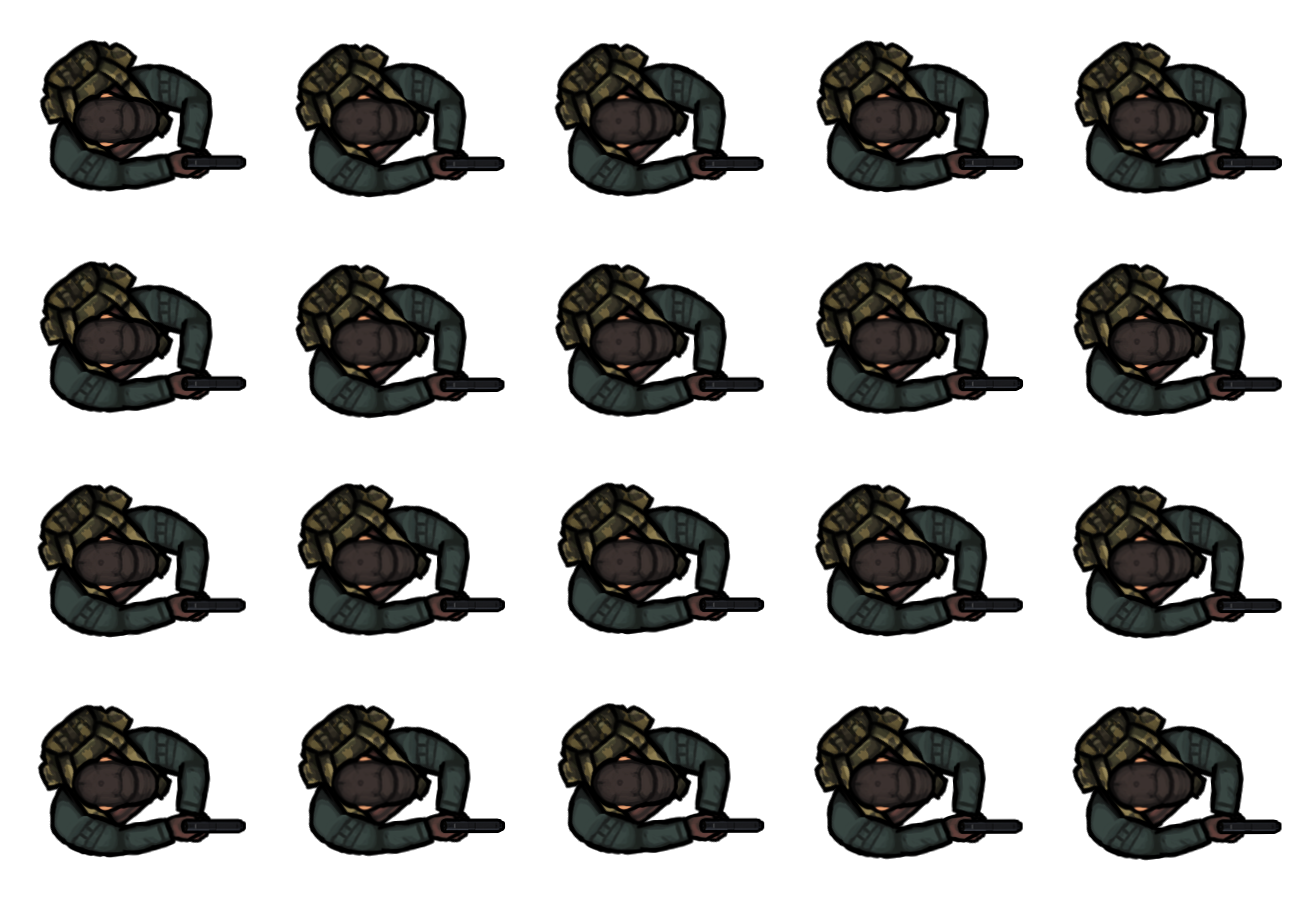
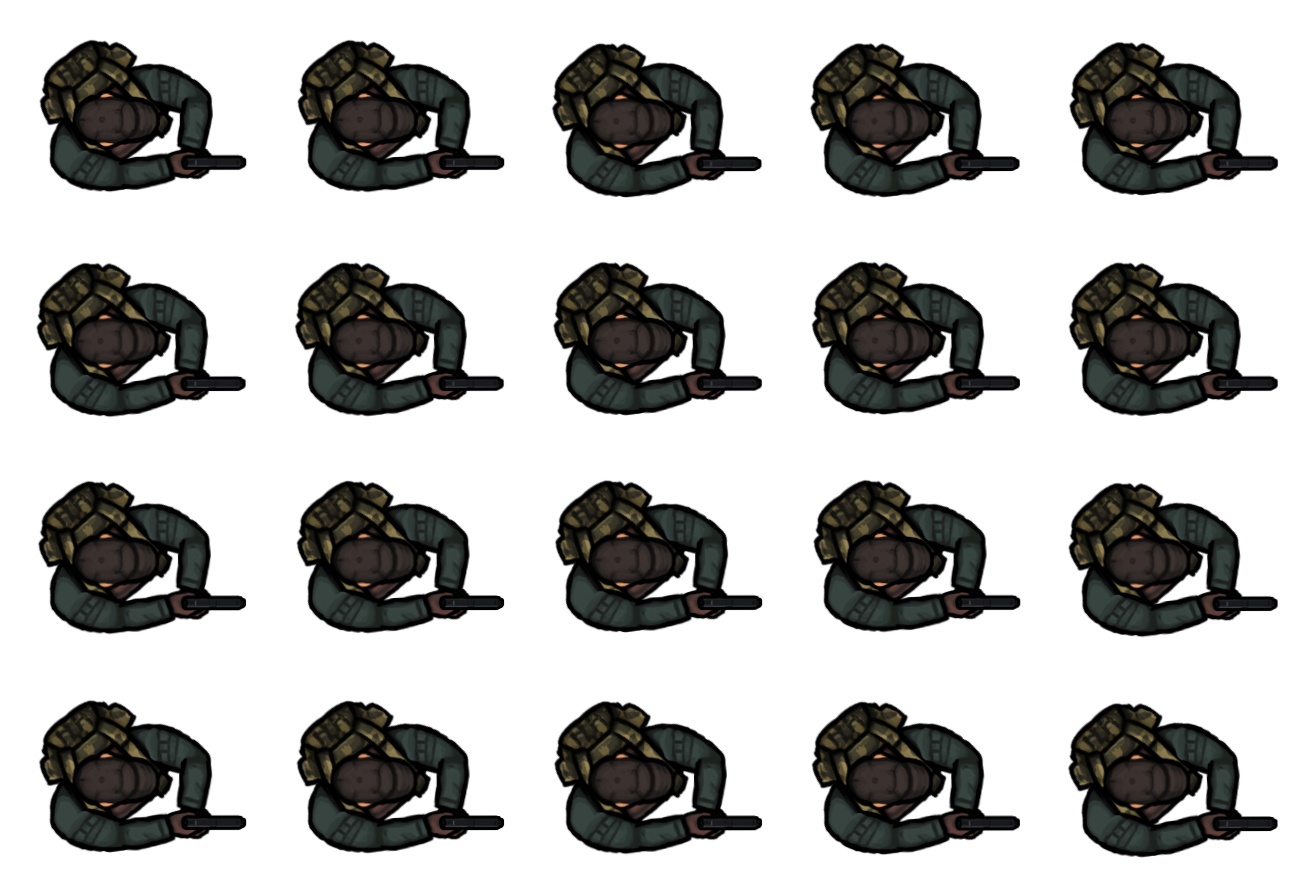
Leg animations are looking pretty awesome now.

diff --git a/scripts/player.js b/scripts/player.js
@@ -29,7 +29,7 @@ function Player(game, scale) {
     this.animations = {};
 
     this.animations.idle = new Animation(ASSET_MANAGER.getAsset("./img/hgun_idle.png"), 0, 0, 258, 220, 0.2, 1, true, false);
-    this.animations.run = new Animation(ASSET_MANAGER.getAsset("./img/hgun_move.png"), 0, 0, 260, 230, .15, 16, true, false);
+    this.animations.run = new Animation(ASSET_MANAGER.getAsset("./img/hgun_move.png"), 0, 0, 258, 220, .15, 15, true, false);
     this.animations.shootPistol = new Animation(ASSET_MANAGER.getAsset("./img/hgun_shoot.png"), 0, 0, 300, 238, 0.2, 6, true, false);
     this.animations.reloadPistol = new Animation(ASSET_MANAGER.getAsset("./img/hgun_reload.png"), 0, 0, 269, 241, .13, 15, false, false);
     this.animations.runFeet = new Animation(ASSET_MANAGER.getAsset("./img/running.png"), 0, 0, 204, 124, 0.1, 20, true, false);

diff --git a/scripts/zombie.js b/scripts/zombie.js
@@ -124,6 +124,7 @@ Zombie.prototype.update = function () {
     //accordingly
     if (this.health <= 0) this.die();
 };
+
 /**
  * Draw for the game loop
  * @param ctx
